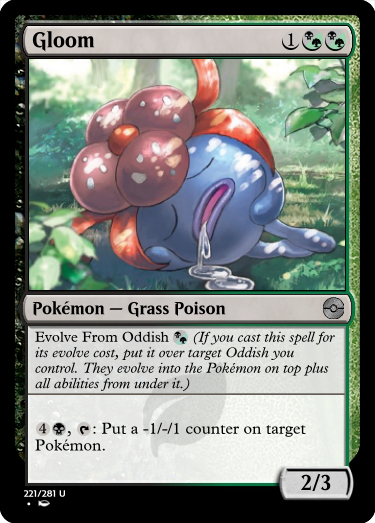
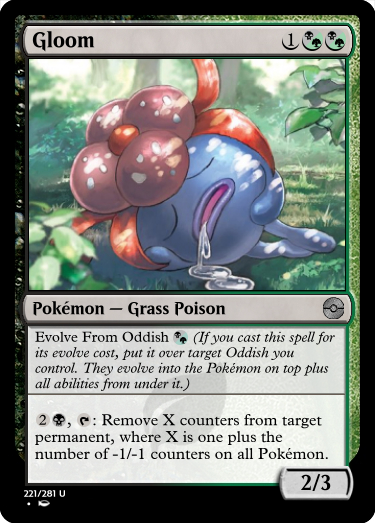
Balancing, tweaks, formatting, etc. (#60)
* Balancing and tweaks

* Delete Guard Spec..png

* Delete Silph Co..png

* Guard Spec.

* Card updates and corrected images

* Hyper Beam and Metapod

* Evolution clarity

* Agatha art

* Agatha art v2

* Eevee/Green clarity

* Balancing and tweaks

* Add files via upload

* Changes based on comments

* Add files via upload

* Super Repel

* Super Repel

Changed region(s): [[0.088, 0.7648, 0.88, 0.8872]]

diff --git a/README.md b/README.md
@@ -22,13 +22,13 @@ Fossil is a replacement for the escape mechanic. Fossil behaves like escape in a
 
 ### Evolution
 
-Evolve: Flip the card over, just like with transform. Double-faced Pokémon cards have the same abilities on both sides (minus the evolve ability), only their power, toughness, and name are different.
+Evolve - An activated ability that turns the card over, just like transform. Double-faced Pokémon cards have the same abilities on both sides (minus the evolve ability), only their power, toughness, and name are different.
 
-Evolve From: An alternate casting cost very similar to mutate from Ikoria, but it targets a specific Pokémon. They evolve into the Pokémon on top plus all abilities from under it.
+Evolve From - An alternate casting cost very similar to mutate from Ikoria, but it targets a specific Pokémon. They evolve into the Pokémon on top plus all abilities from under it.
 
-Both the activated ability "Evolve" and the alternate casting cost "Evolve From" count as evolution. Any triggered abilities that care about a Pokémon evolving will trigger from both types of evolution.
+Both "Evolve" and "Evolve From" count as evolution/evolving. Any triggered abilities that care about Pokémon evolving will trigger from both types of evolution. If a card affects what you can pay "to evolve Pokémon" it applies to both types of evolution.
 
-A Pokémon is considered evolved if it is the back side of a card with an evolve ability or it was cast using its Evolve From cost. A Pokémon is considered unevolved if it is the front side of a card with an evolve ability or it is a card with an Evolve From cost that was cast using its standard mana cost.
+A Pokémon is considered evolved if it is the back side of a card with an evolve ability or it was cast using its Evolve From cost. A Pokémon is considered unevolved if it is the front side of a card with an evolve ability, it is a card with an Evolve From cost that was cast using its standard mana cost, or it is a card without Evolve or Evolve From.
 
 ## FAQs
 
@@ -48,10 +48,6 @@ A Pokémon is considered evolved if it is the back side of a card with an evolve
 
 **A**: We want to be consistent with the DFC cards having the same abilities on the front and back sides. This also opens up potential design space for future generations if we want to have an effect that has cards enter already evolved.
 
-**Q: Eevee says "Evolve abilities of Pokémon you control cost 1 less to activate." Does that reduce Evolve From costs?**
-
-**A**: No, Evolve From is an alternate casting cost, not an ability.
-
 **Q: Why isn't [insert favorite Pokémon here] the color I think it should be? Your colors are bad and you should feel bad.**
 
 **A**: To make a balanced cube, we need to have roughly equal representation for each color. Gen 1 has a high concentration of poison and water types. Fire, rock, ground, and electric could all be red. Designing the cube requires us to take some poetic license regarding what color a Pokémon ends up being, and the end result may be different than what any Pokémon would have been in a vaccuum. 
@@ -59,3 +55,11 @@ A Pokémon is considered evolved if it is the back side of a card with an evolve
 **Q: Why doesn't Spearow have flying?**
 
 **A**: We know it's weird that there are Flying Pokémon, that not all Flying Pokémon have flying, and that you can have flying even if you're not a Flying Pokémon. We didn't want to be constrained to all Flying Pokémon having flying, mostly for balance.
+
+**Q: The Metapod card has Defender, which makes sense. The Metapod DFC doesn't. What gives?**
+
+**A**: Our DFC's don't add or remove abilities when they flip. Also when Caterpie evolves into Metapod, it retains its moveset, such as tackle.
+
+**Q: Hyper Beam says "Enchant target Pokémon without an Evolve ability." Does that mean I can't use it on Dragonite, which has Evolve From?**
+
+**A**: Evolve is an activated ability, while Evolve From is an alternate casting cost. Any Pokémon with Evolve From can be enchanted by Hyper Beam.
